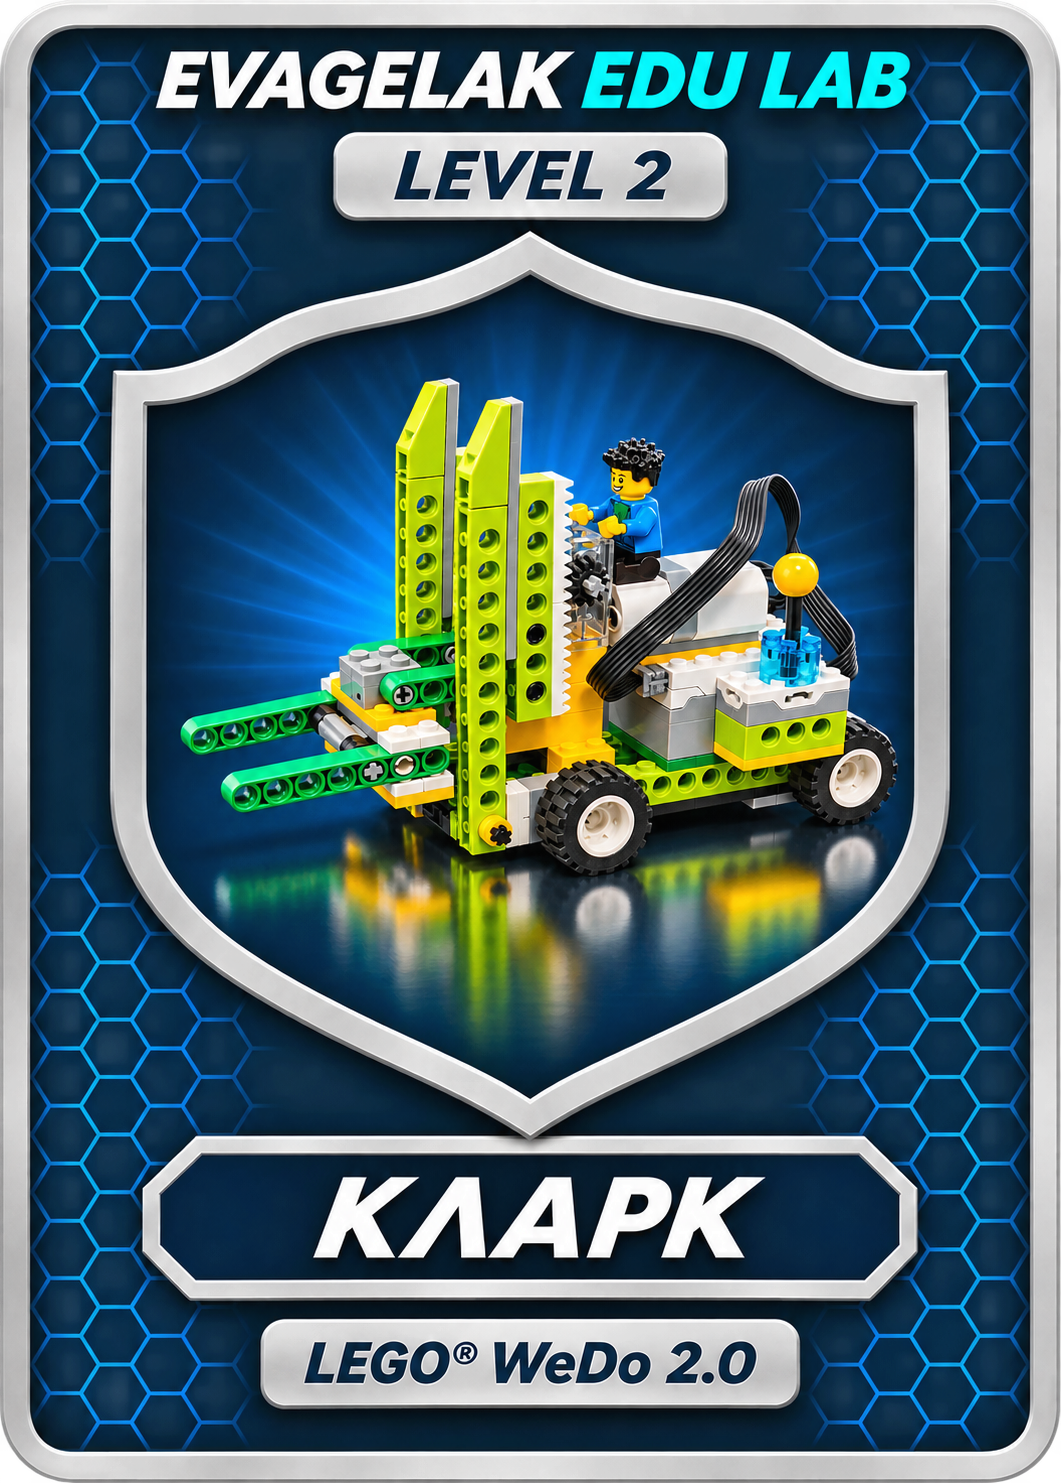
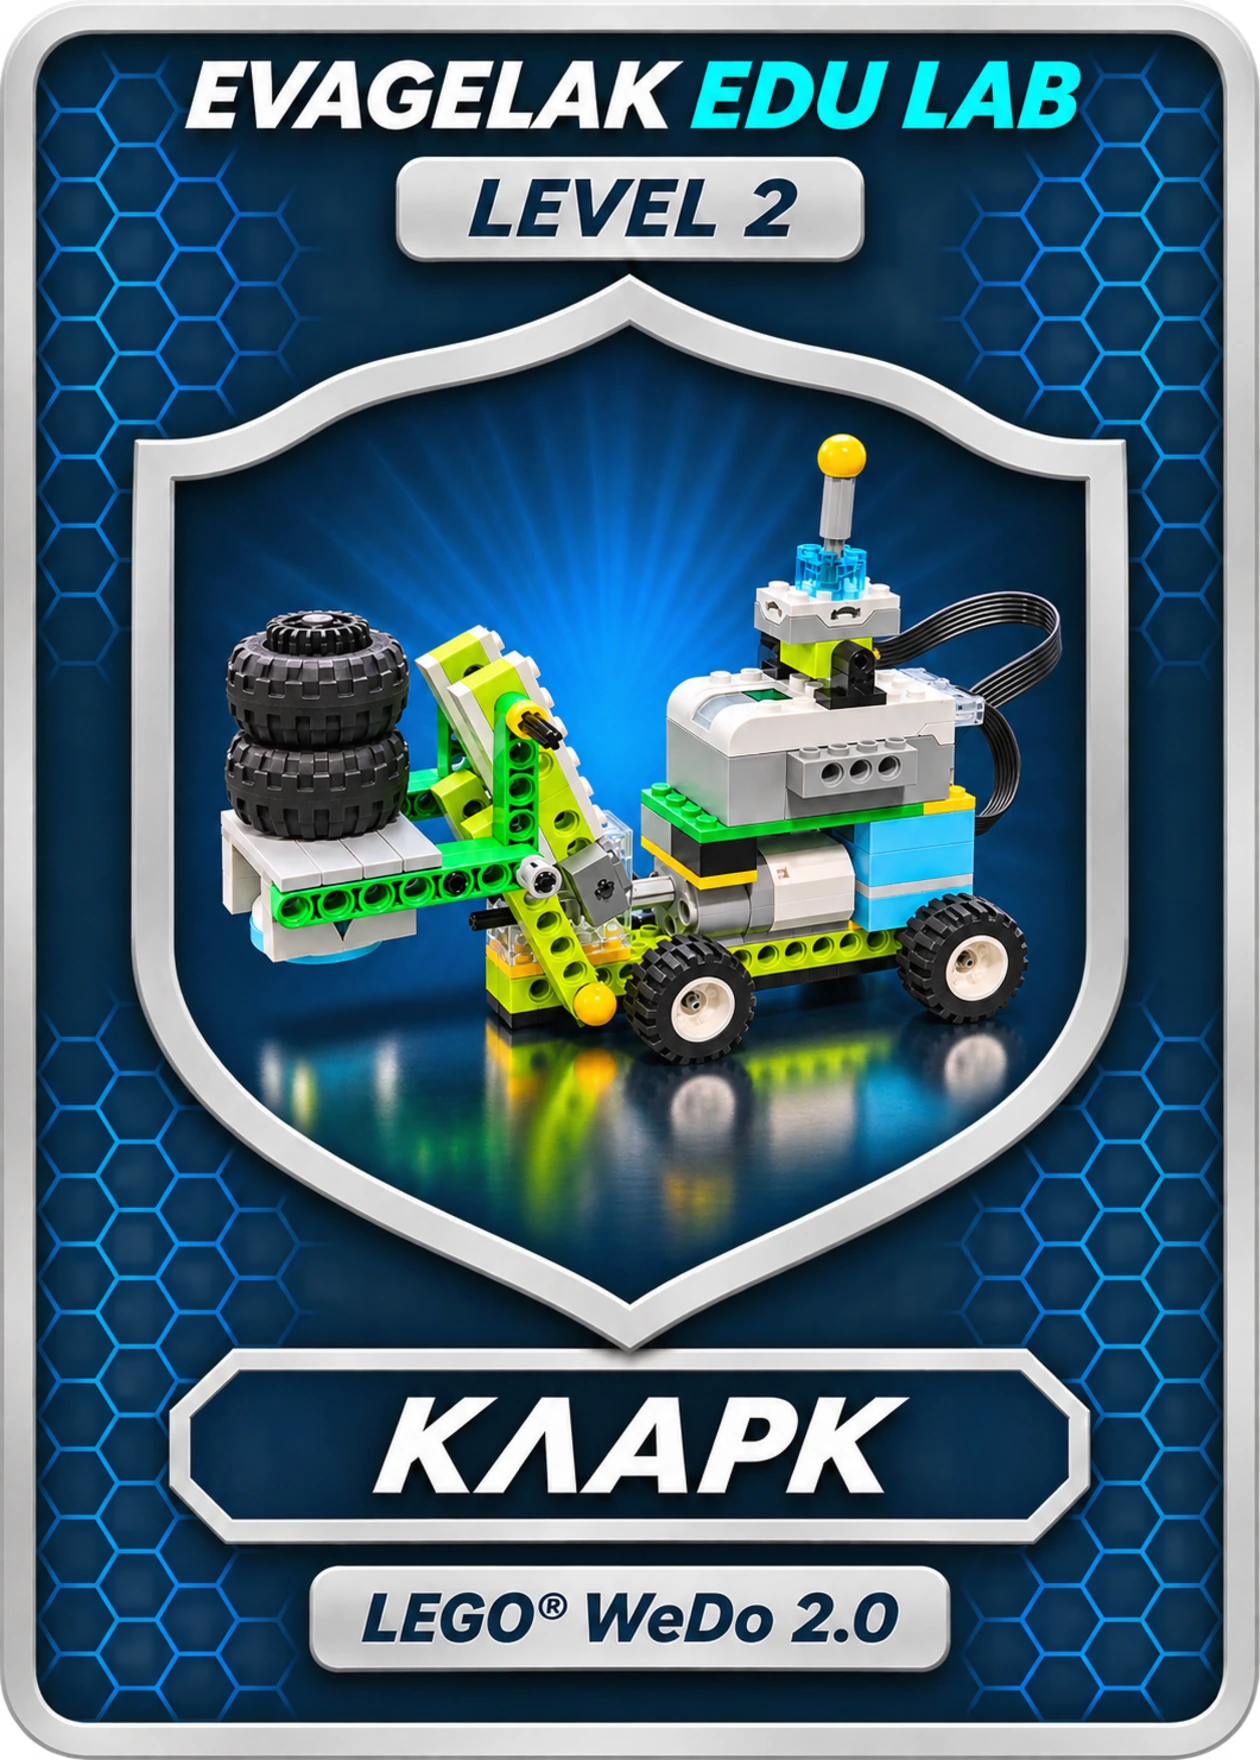
Add files via upload

diff --git a/badges/index.html b/badges/index.html
@@ -183,7 +183,7 @@
 @media(max-width:470px){#forklift2-visual img{max-height:167px}#forklift2-visual{min-height:158px}}
 </style>
 <script src="../assets/js/badges.js?v=forklift2-1" defer></script>
-<script src="gallery.js?v=forklift2-1" defer></script>
+<script src="gallery.js?v=forklift2-card-2" defer></script>
 <link rel="stylesheet" href="https://fonts.googleapis.com/css2?family=Inter:wght@400..800&amp;display=swap">
 <link rel="stylesheet" href="../assets/css/edulab-ui.css?v=actions3">
 <style id="album-back-button-unified">
@@ -304,11 +304,11 @@
 </article>
 <article id="forklift2-card" class="slot" data-project-id="forklift-2" aria-labelledby="forklift2-title">
 <div class="slot-top"><span class="slot-num">11 / 11</span><span id="forklift2-state-label" class="slot-state">ΚΛΕΙΔΩΜΕΝΗ</span></div>
-<div id="forklift2-visual" class="slot-art locked"><img src="../assets/images/cards/forklift-2-level2.webp" width="1061" height="1483" alt="Συλλεκτική κάρτα Κλαρκ II LEVEL 2" loading="lazy"><span class="lock-symbol" aria-label="Κλειδωμένη κάρτα"><svg viewBox="0 0 24 24" aria-hidden="true"><rect x="5" y="10" width="14" height="11" rx="2"></rect><path d="M8 10V7a4 4 0 0 1 8 0v3"></path></svg></span></div>
+<div id="forklift2-visual" class="slot-art locked"><img src="../assets/images/cards/forklift-2-level2.webp?v=tires-20261125" width="1260" height="1760" alt="Συλλεκτική κάρτα Κλαρκ II LEVEL 2" loading="lazy"><span class="lock-symbol" aria-label="Κλειδωμένη κάρτα"><svg viewBox="0 0 24 24" aria-hidden="true"><rect x="5" y="10" width="14" height="11" rx="2"></rect><path d="M8 10V7a4 4 0 0 1 8 0v3"></path></svg></span></div>
 <h3 id="forklift2-title" class="slot-name">Ανυψωτικό Μηχάνημα II (Κλαρκ)</h3><p class="forklift2-card-level">LEVEL 2</p>
 <p id="forklift2-description" class="slot-help">Πέτυχε τουλάχιστον 8/10 στο quiz για να κερδίσεις την κάρτα LEVEL 2.</p>
 <p class="status"><span class="dot" aria-hidden="true"></span><span id="forklift2-status">ΚΛΕΙΔΩΜΕΝΗ</span></p>
-<div class="slot-actions"><button id="forklift2-view" class="action secondary" hidden type="button">Δες την κάρτα</button><a id="forklift2-download" class="action secondary" href="../assets/images/cards/forklift-2-level2.webp" download="EVAGELAK-EDU-LAB-KLARK-II-LEVEL-2.webp" hidden>Λήψη κάρτας ↓</a><a id="forklift2-quiz-link" class="action" href="../workshops/2026-2027/11-forklift-2/quiz.html">Παίξε το κουίζ →</a></div>
+<div class="slot-actions"><button id="forklift2-view" class="action secondary" hidden type="button">Δες την κάρτα</button><a id="forklift2-download" class="action secondary" href="../assets/images/cards/forklift-2-level2.webp?v=tires-20261125" download="EVAGELAK-EDU-LAB-KLARK-II-LEVEL-2.webp" hidden>Λήψη κάρτας ↓</a><a id="forklift2-quiz-link" class="action" href="../workshops/2026-2027/11-forklift-2/quiz.html">Παίξε το κουίζ →</a></div>
 </article>
 
 </div></div>
@@ -351,9 +351,9 @@
 <div class="preview-actions"><a class="action" href="../assets/images/cards/forklift-level2.webp" download="EVAGELAK-EDU-LAB-KLARK-LEVEL-2.webp">Κατέβασε την κάρτα ↓</a> <a class="album-replay" href="../workshops/2026-2027/10-forklift/quiz.html">Παίξε ξανά →</a></div></dialog>
 <dialog id="forklift2-preview" class="preview-dialog" aria-labelledby="forklift2-preview-title">
 <div class="preview-head"><h2 id="forklift2-preview-title">Η συλλεκτική κάρτα μου · Κλαρκ II</h2><button id="forklift2-preview-close" class="preview-close" type="button" aria-label="Κλείσιμο προεπισκόπησης">×</button></div>
-<img class="preview-image" src="../assets/images/cards/forklift-2-level2.webp" width="1061" height="1483" alt="Ξεκλειδωμένη συλλεκτική κάρτα Κλαρκ II LEVEL 2">
+<img class="preview-image" src="../assets/images/cards/forklift-2-level2.webp?v=tires-20261125" width="1260" height="1760" alt="Ξεκλειδωμένη συλλεκτική κάρτα Κλαρκ II LEVEL 2">
 <p class="preview-note">Αποθήκευσε τη συλλεκτική κάρτα στην αρχική μορφή WebP, 1061 × 1483 px.</p>
-<div class="preview-actions"><a class="action" href="../assets/images/cards/forklift-2-level2.webp" download="EVAGELAK-EDU-LAB-KLARK-II-LEVEL-2.webp">Κατέβασε την κάρτα ↓</a> <a class="album-replay" href="../workshops/2026-2027/11-forklift-2/quiz.html">Παίξε ξανά →</a></div></dialog>
+<div class="preview-actions"><a class="action" href="../assets/images/cards/forklift-2-level2.webp?v=tires-20261125" download="EVAGELAK-EDU-LAB-KLARK-II-LEVEL-2.webp">Κατέβασε την κάρτα ↓</a> <a class="album-replay" href="../workshops/2026-2027/11-forklift-2/quiz.html">Παίξε ξανά →</a></div></dialog>
 
 </main>
 <footer class="footer">EVAGELAK EDU LAB · Μαθαίνουμε. Δημιουργούμε. Προγραμματίζουμε.</footer>

diff --git a/workshops/2026-2027/11-forklift-2/quiz.html b/workshops/2026-2027/11-forklift-2/quiz.html
@@ -22,7 +22,7 @@ main{padding:33px 0 65px}.heading{margin:0 0 14px;font-size:clamp(26px,4vw,38px)
 /* Earned LEVEL 2 Forklift II card: original image, subtle one-off reveal. */
 .scooter-award-stage{position:relative;display:grid;place-items:center;overflow:hidden;isolation:isolate;width:min(390px,100%);min-height:360px;margin:10px auto 18px;border:1px solid #d8e8ed;border-radius:22px;background:radial-gradient(circle at 50% 38%,#ddfaff 0%,#eaf6fa 41%,#f5f9fa 78%)}
 .scooter-award-stage::before{content:"";position:absolute;width:270px;height:270px;border-radius:50%;border:1px solid rgba(40,153,180,.24);box-shadow:0 0 0 22px rgba(40,153,180,.055),0 0 0 48px rgba(40,153,180,.035);animation:scooter-award-halo 1.6s ease-out both}
-.scooter-award-image{position:relative;z-index:1;display:block;width:min(245px,65vw);height:auto;aspect-ratio:1122/1402;object-fit:contain;filter:drop-shadow(0 15px 19px rgba(6,44,69,.18));animation:scooter-award-rise 1.45s cubic-bezier(.2,.8,.2,1) both}
+.scooter-award-image{position:relative;z-index:1;display:block;width:min(245px,65vw);height:auto;aspect-ratio:63/88;object-fit:contain;filter:drop-shadow(0 15px 19px rgba(6,44,69,.18));animation:scooter-award-rise 1.45s cubic-bezier(.2,.8,.2,1) both}
 .scooter-award-message{max-width:540px;margin:5px auto 19px;color:#456476;font-size:14px;line-height:1.7}
 .scooter-award-actions{display:flex;gap:11px;flex-wrap:wrap;justify-content:center;align-items:center;margin:18px auto 0}
 .scooter-award-actions .btn{display:inline-flex;align-items:center;justify-content:center;min-height:44px;text-decoration:none;line-height:1.3}
@@ -70,7 +70,7 @@ function draw(){
   const saved=Boolean(window.EduLabBadges && window.EduLabBadges.award('forklift-2', score, QUIZ.length));
   const e=elem('div','end');e.appendChild(elem('p','kicker','ΑΠΟΣΤΟΛΗ ΟΛΟΚΛΗΡΩΘΗΚΕ'));
   const stage=elem('div','scooter-award-stage edulab-award edulab-award--silver');stage.insertAdjacentHTML('afterbegin','<span class="edulab-award__ring" aria-hidden="true"></span><span class="edulab-award__spark" aria-hidden="true" style="--sx:0px;--sy:-127px;--delay:110ms"></span><span class="edulab-award__spark" aria-hidden="true" style="--sx:108px;--sy:-79px;--delay:160ms"></span><span class="edulab-award__spark" aria-hidden="true" style="--sx:135px;--sy:28px;--delay:210ms"></span><span class="edulab-award__spark" aria-hidden="true" style="--sx:60px;--sy:114px;--delay:260ms"></span><span class="edulab-award__spark" aria-hidden="true" style="--sx:-60px;--sy:114px;--delay:310ms"></span><span class="edulab-award__spark" aria-hidden="true" style="--sx:-135px;--sy:28px;--delay:360ms"></span><span class="edulab-award__spark" aria-hidden="true" style="--sx:-108px;--sy:-79px;--delay:410ms"></span>');stage.setAttribute('aria-label','Απονομή της συλλεκτικής κάρτας του δεύτερου κλαρκ LEVEL 2');
-  const card=document.createElement('img');card.className='scooter-award-image';card.src='../../../assets/images/cards/forklift-2-level2.webp';card.alt='Η νέα συλλεκτική κάρτα ΚΛΑΡΚ LEVEL 2';card.width=1061;card.height=1483;const spin=document.createElement('div');spin.className='edulab-card-spin';spin.appendChild(card);stage.appendChild(spin);e.appendChild(stage);
+  const card=document.createElement('img');card.className='scooter-award-image';card.src='../../../assets/images/cards/forklift-2-level2.webp?v=tires-20261125';card.alt='Η νέα συλλεκτική κάρτα ΚΛΑΡΚ LEVEL 2';card.width=1260;card.height=1760;const spin=document.createElement('div');spin.className='edulab-card-spin';spin.appendChild(card);stage.appendChild(spin);e.appendChild(stage);
   e.appendChild(elem('h2','','Κέρδισες τη συλλεκτική κάρτα LEVEL 2!'));
   e.appendChild(elem('div','final-score',`${score} / ${QUIZ.length}`));
   const title=score===QUIZ.length?'Άριστα!':score>=7?'Πολύ καλή δουλειά!':'Μπράβο για την προσπάθεια!';

diff --git a/badges/gallery.js b/badges/gallery.js
@@ -88,7 +88,7 @@
       earnedDesc: 'Η συλλεκτική κάρτα Κλαρκ II LEVEL 2 βρίσκεται στο άλμπουμ σου!',
       lockedDesc: 'Πέτυχε τουλάχιστον 8/10 στο quiz του δεύτερου Ανυψωτικού Μηχανήματος για να κερδίσεις τη συλλεκτική κάρτα LEVEL 2.',
       quizTextEarned: 'Παίξε ξανά →', quizTextLocked: 'Παίξε το κουίζ →',
-      fallbackHref: '../assets/images/cards/forklift-2-level2.webp'
+      fallbackHref: '../assets/images/cards/forklift-2-level2.webp?v=tires-20261125'
     }
   ];
 

diff --git a/workshops/2026-2027/10-forklift2/quiz.html b/workshops/2026-2027/10-forklift2/quiz.html
@@ -1,0 +1,14 @@
+<!doctype html>
+<html lang="el">
+<head>
+<meta charset="utf-8">
+<meta name="viewport" content="width=device-width, initial-scale=1">
+<title>Μεταφορά στο Quiz · Ανυψωτικό Μηχάνημα II</title>
+<meta name="robots" content="noindex">
+<meta http-equiv="refresh" content="0; url=../11-forklift-2/quiz.html">
+<script>window.location.replace('../11-forklift-2/quiz.html');</script>
+</head>
+<body>
+<p>Το quiz μεταφέρθηκε. <a href="../11-forklift-2/quiz.html">Άνοιξε το quiz του Ανυψωτικού Μηχανήματος II</a>.</p>
+</body>
+</html>
